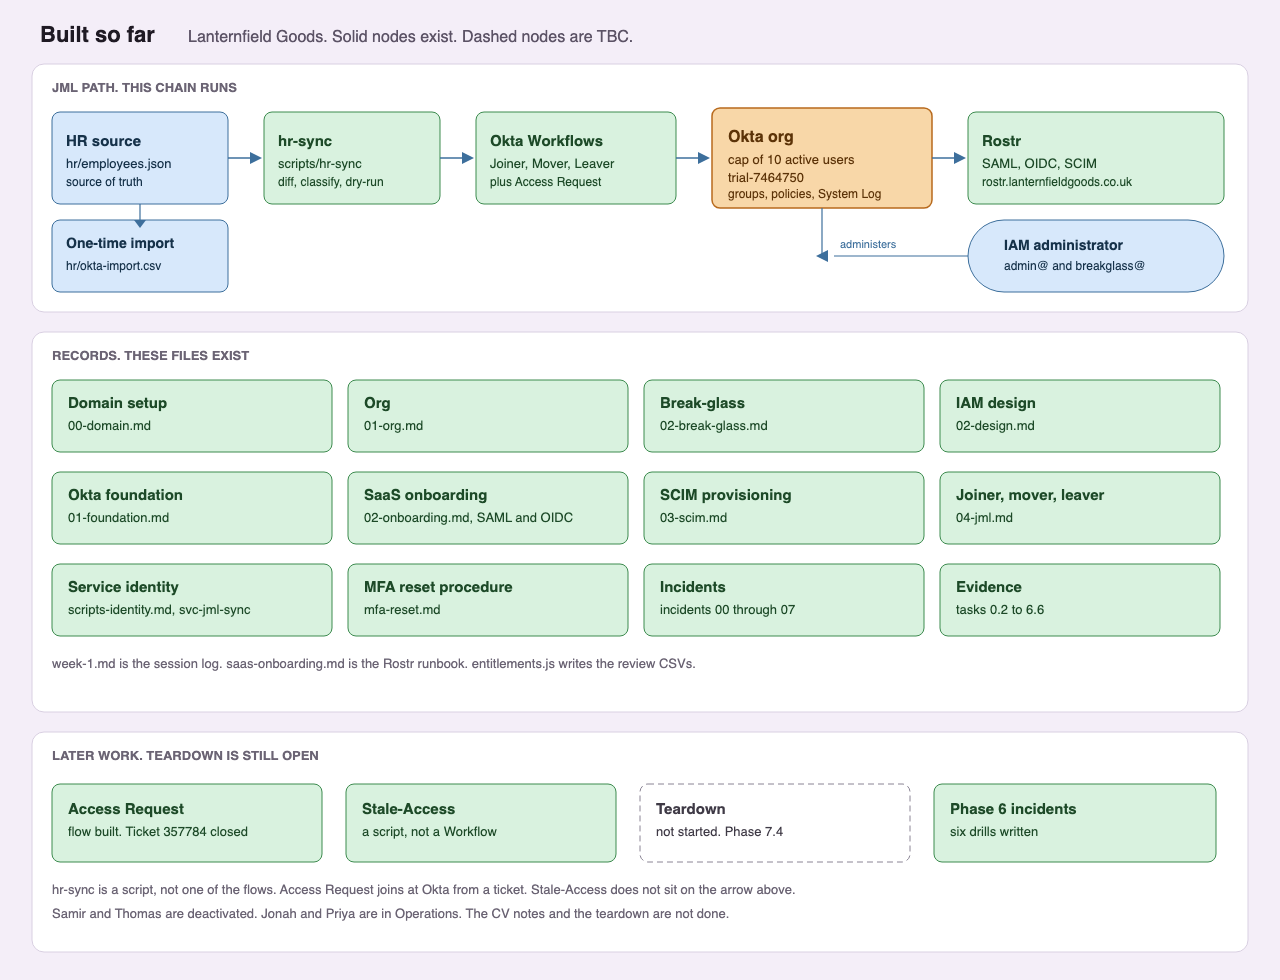
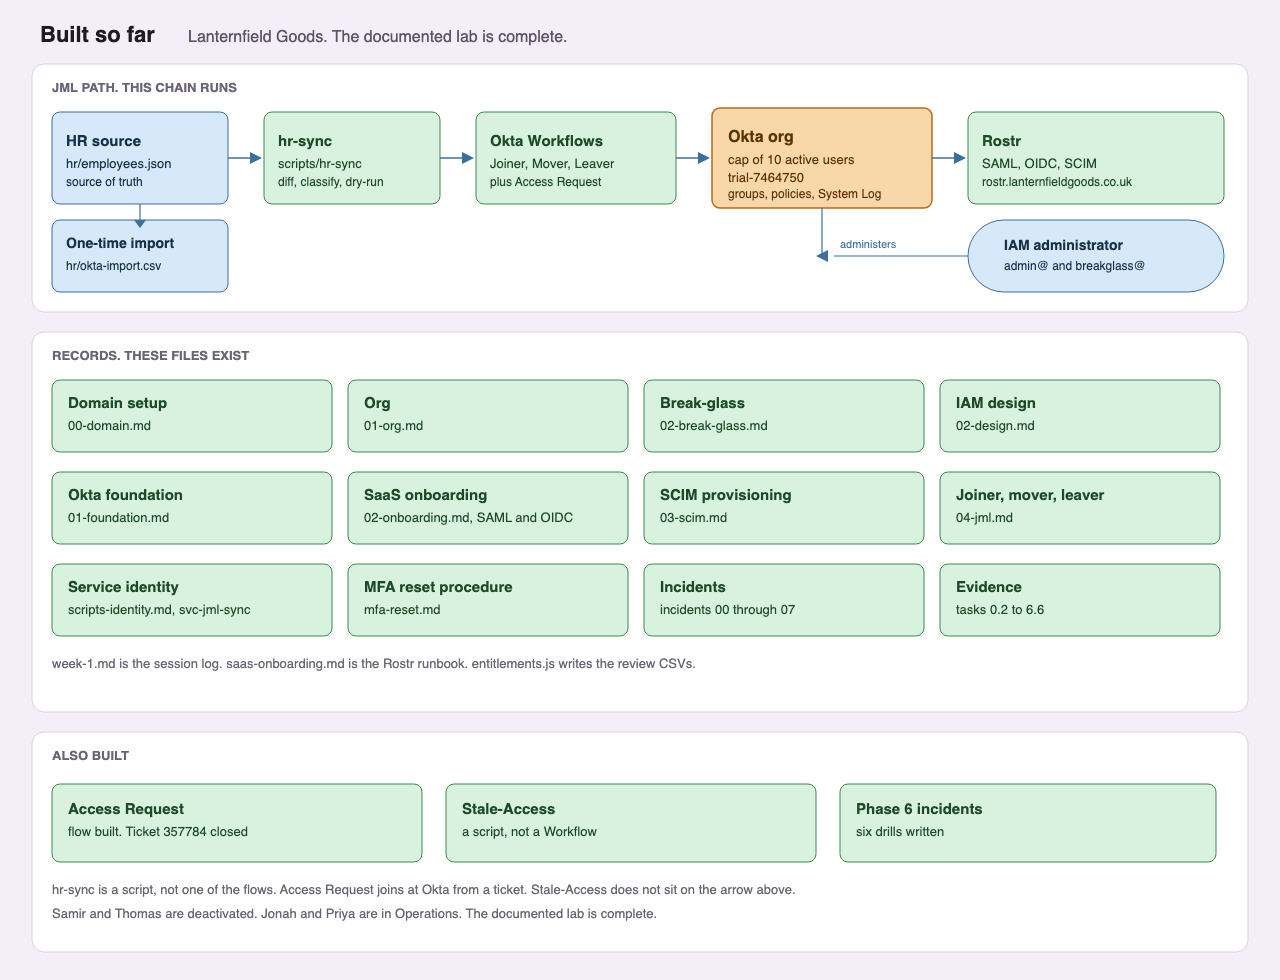
update diagram for lab

diff --git a/README.md b/README.md
@@ -41,7 +41,7 @@ flowchart LR
 
 ![Diagram of the lab as built](docs/built-so-far.png)
 
-Solid nodes exist. The dashed node is teardown, which has not been done. The top row is the path above. `hr/okta-import.csv` was the one-time load. `hr-sync` is a script, not one of the Workflows.
+Every node is built. The top row is the path above. `hr/okta-import.csv` was the one-time load. `hr-sync` is a script, not one of the Workflows. Teardown is not on this diagram.
 
 ## Run Rostr locally
 
